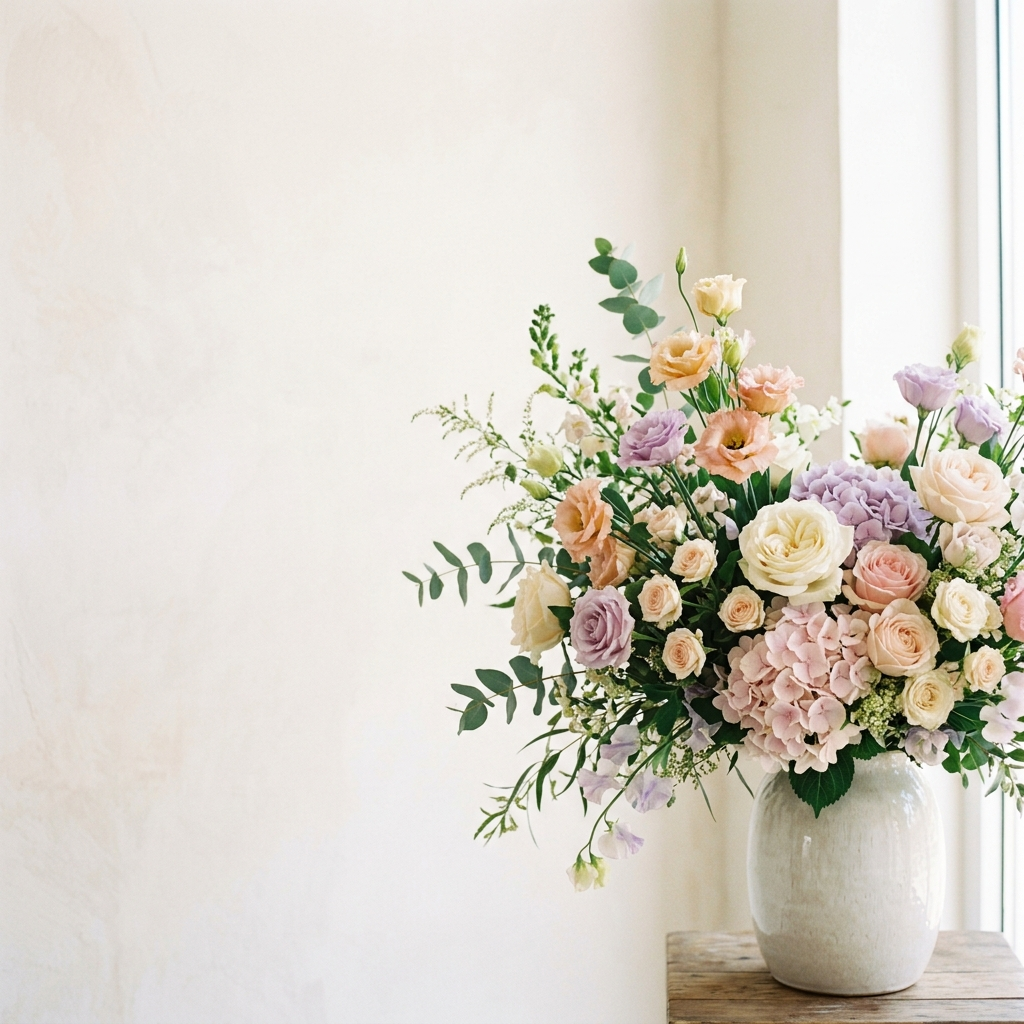
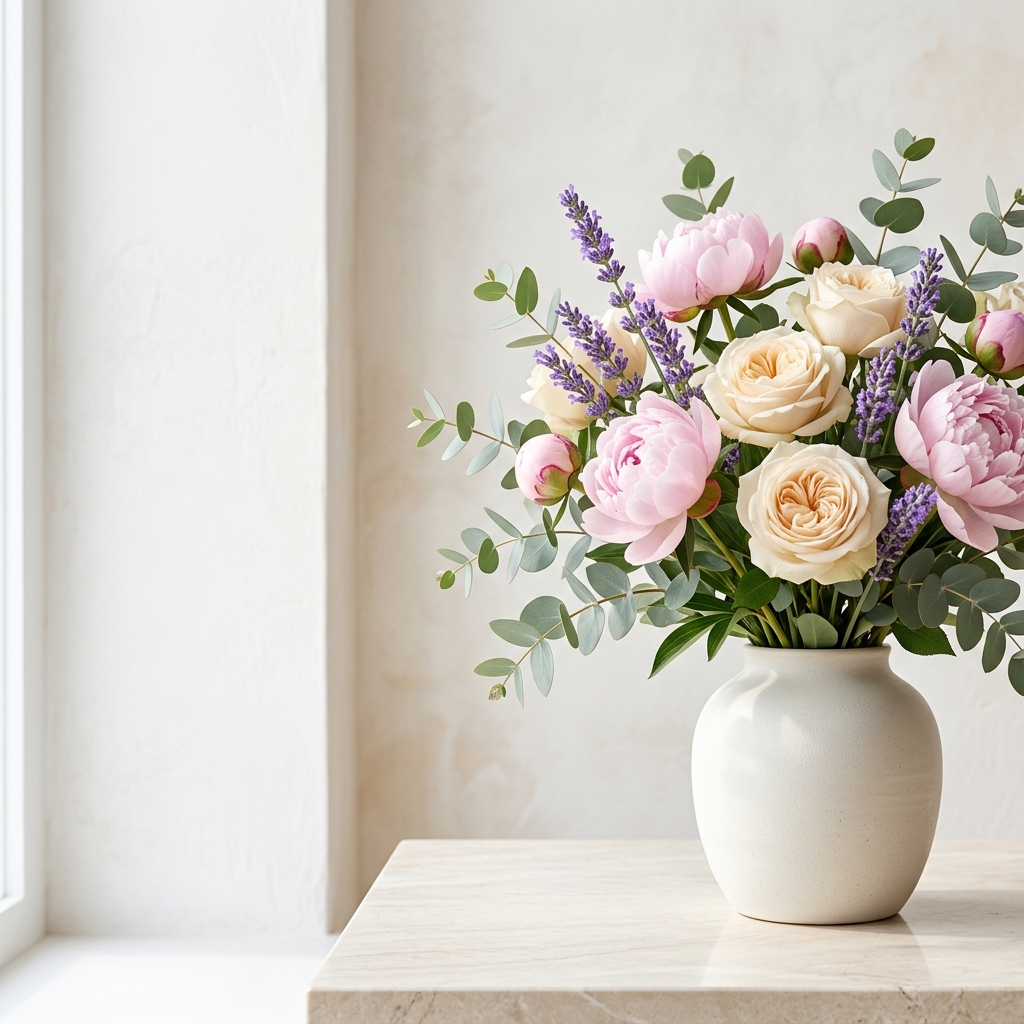
style: premium hero background image and updated map widget to point to Kosmos organization

diff --git a/public/index.html b/public/index.html
@@ -129,7 +129,7 @@
       
       <!-- Стеклянная Яндекс Карта -->
       <div class="about-map-wrapper glass">
-        <iframe class="about-map" src="https://yandex.ru/map-widget/v1/?ll=58.406981%2C53.974955&mode=search&oid=1658428807&ol=biz&z=17" allowfullscreen="true" style="position:relative;"></iframe>
+        <iframe class="about-map" src="https://yandex.ru/map-widget/v1/org/kosmos/1157583872/?ll=58.403810%2C53.969836&z=16" allowfullscreen="true" style="position:relative;"></iframe>
       </div>
     </div>
   </section>